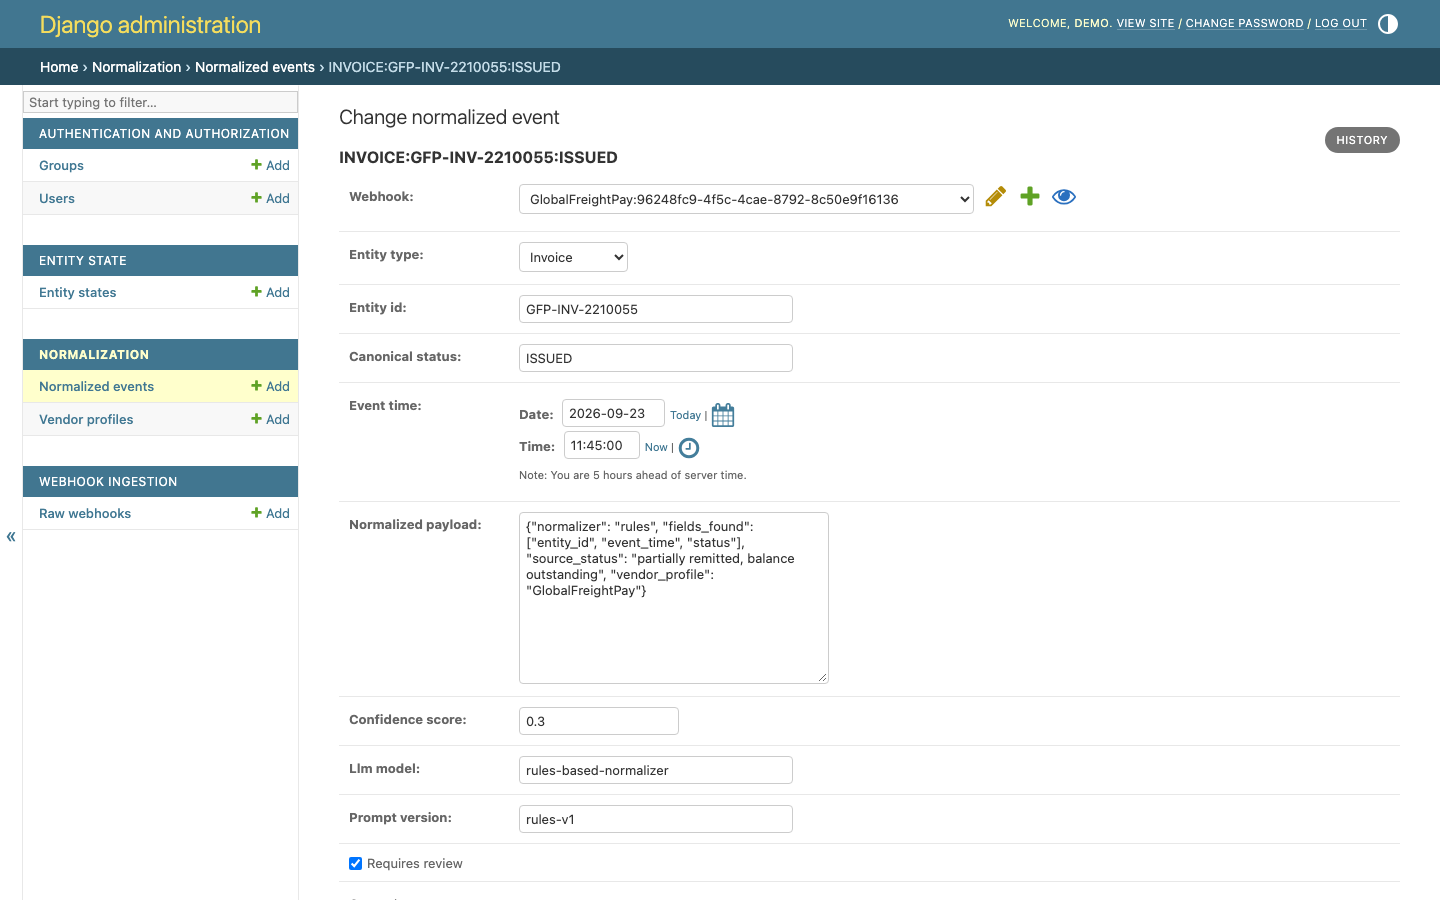
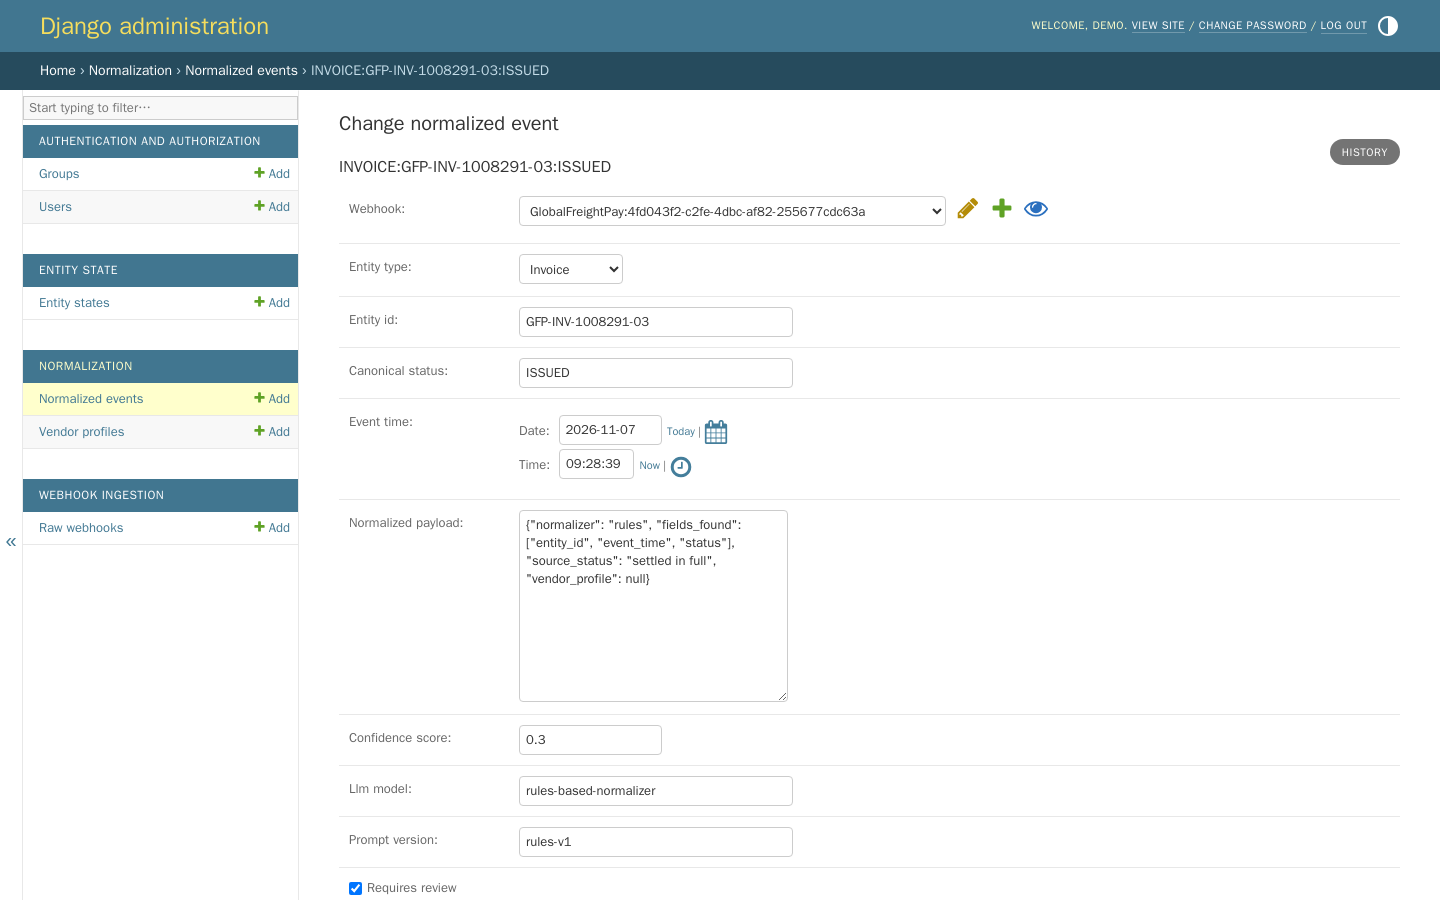
Recapture README examples and admin screenshots from a fresh stack
Request/response pairs and all five screenshots were taken from a clean
docker compose up seeded with demo data. The README now uses the lockfile
for local installs, runs the tests through the compose container, links the
entity-state and API docs screenshots, and covers the review row lock and
the malformed-model-reply handling.

diff --git a/README.md b/README.md
@@ -22,10 +22,11 @@ docker compose up --build
 This starts PostgreSQL, Redis, the web process and two Celery workers (one per queue), runs
 migrations, creates a `demo` / `demo-password` admin login and seeds 24 webhooks from four
 vendors. Web is on `:8100` (admin at `/admin/`, OpenAPI at `/api/docs/`, liveness at
-`/api/health/`), PostgreSQL on `:8101`, Redis on `:8102`. Without Docker, against local services:
+`/api/health/`), PostgreSQL on `:8101`, Redis on `:8102`. Without Docker, on Python 3.12
+(`.python-version`) and against local services:
 
 ```bash
-uv sync --extra dev
+uv sync --locked --extra dev
 export POSTGRES_HOST=localhost REDIS_URL=redis://localhost:6379/0 CACHE_URL=redis://localhost:6379/2
 python manage.py migrate && python manage.py seed_demo && python manage.py runserver 8100
 celery -A config worker --queues normalization,normalization.bulk --loglevel INFO
@@ -35,13 +36,14 @@ celery -A config worker --queues normalization,normalization.bulk --loglevel INF
 
 ## One webhook, end to end
 
-Output from a local run with no API key set (`-H 'Content-Type: application/json'` omitted). A
-delivery in a vocabulary the normaliser knows goes straight to entity state:
+Captured from a fresh `docker compose up` with no API key set (`-H 'Content-Type:
+application/json'` omitted). A delivery in a vocabulary the normaliser knows goes straight to
+entity state:
 
 ```console
 $ curl -sX POST :8100/api/webhooks/ -H 'X-Webhook-Vendor: Maersk' -H 'Idempotency-Key: MRSK-EVT-2026-000911' \
     -d '{"container_no":"MAEU240498799","event_description":"delivered","event_time":"2026-09-26T10:15:00+00:00"}'
-{"status":"accepted","webhook_id":"04178bb0-6b69-4405-af1d-4cf837865707"}
+{"status":"accepted","webhook_id":"d0de0d0d-d902-40e0-b90e-9522d5c60a57"}
 $ curl -s ':8100/api/entities/state/?entity_type=SHIPMENT&entity_id=MAEU240498799'
 {"entity_type":"SHIPMENT","entity_id":"MAEU240498799","latest_status":"DELIVERED","latest_event_time":"2026-09-26T10:15:00Z","latest_event_id":25}
 ```
@@ -62,7 +64,7 @@ $ grep normalization_held_for_review worker.log
 $ curl -sX POST :8100/api/normalization/review-queue/26/ -d '{"decision":"approve"}'
 {"id":26,"decision":"approve","entity_state_updated":true}
 $ curl -sX POST :8100/api/normalization/review-queue/26/ -d '{"decision":"reject"}'
-{"detail":"event 26 was already reviewed at 2026-10-24 11:24:47.188358+00:00"}   # HTTP 409
+{"detail":"event 26 was already reviewed at 2026-11-07 18:29:25.906767+00:00"}   # HTTP 409
 ```
 
 ## Architecture
@@ -104,7 +106,11 @@ sequenceDiagram
 Three Django apps split the tables: `apps/ingestion` owns `RawWebhook` (signatures, idempotency,
 routing, replay), `apps/normalization` owns `NormalizedEvent` and `VendorProfile` (backends, the
 gate in `review.py`, discovery, calibration), and `apps/entities` owns `EntityState`, one row per
-`(entity_type, entity_id)` pointing at the event that set it. A normalised event's lifecycle:
+`(entity_type, entity_id)` pointing at the event that set it:
+
+![Entity states in the admin, one row per shipment or invoice](docs/screenshots/entity-state.png)
+
+A normalised event's lifecycle:
 
 ```mermaid
 stateDiagram-v2
@@ -119,7 +125,7 @@ stateDiagram-v2
     Rejected --> [*]: EntityState untouched
 ```
 
-![A held invoice event in the admin, confidence 0.3, source status "partially remitted"](docs/screenshots/review-console.png)
+![A held invoice event in the admin, confidence 0.3, source status "settled in full"](docs/screenshots/review-console.png)
 *A held event in the admin: the reading, the fields found and the vendor's original status text.*
 
 ## Design decisions
@@ -128,7 +134,8 @@ stateDiagram-v2
 later means downstream consumers act on a status nobody checked; holding costs operator time and
 latency. The worker calls `apply_confidence_gate()`; the review API and the admin's bulk
 approve/reject actions both call `apply_review_decision()`, so the paths share one rule. A
-decision is final (`409` on a second one) so the audit trail matches what happened.
+decision is final (`409` on a second one) so the audit trail matches what happened, and it is
+checked under a row lock so two reviewers acting at once cannot both win.
 
 **Score by the weakest signal.** The rule backend scores entity type,
 status and timestamp separately and takes the minimum. An average would let a confidently
@@ -138,13 +145,16 @@ pins the exact-threshold case so it cannot flip to `<=` unnoticed.
 **Teach the vendor rather than review it forever.** `POST /api/normalization/vendor-profiles/discover/`
 takes a handful of sample payloads and proposes where the id, status and timestamp live, plus a
 status map. It runs statistically with no key; with a key, a model's proposal is merged on top,
-but every path it suggests must exist in the samples and every status must be canonical.
-Phrases it cannot map are reported, never invented:
+but every path it suggests must exist in the samples and every status must be canonical; a
+malformed reply falls back to the statistical reading. Phrases it cannot map are reported, never
+invented:
 
 ```console
 {"method":"statistical","sample_count":4,"unmapped_statuses":["cargo_released_to_consignee"],
- "profile":{"vendor":"Ocean Network Express","id_paths":["shipment_reference"],
-   "status_map":{"delivered":"DELIVERED","in_transit":"IN_TRANSIT"}},"persisted":true}
+ "warnings":[],"profile":{"vendor":"Ocean Network Express","entity_type":"SHIPMENT",
+   "id_paths":["shipment_reference"],"status_paths":["status_text"],"time_paths":["occurred_at"],
+   "status_map":{"delivered":"DELIVERED","in_transit":"IN_TRANSIT"},"source":"DISCOVERED",
+   "sample_count":4,"notes":""},"persisted":true}
 ```
 
 A person adds the missing word (`PUT /vendor-profiles/{vendor}/` or the admin) and replays the
@@ -184,7 +194,7 @@ is down routing falls back to the default queue.
 |---|---|
 | `POST /api/webhooks/` | Ingest. `202`; `400` for a non-object payload; `401` for a bad signature |
 | `POST /api/webhooks/{id}/replay/` | Re-run a stored payload. `409` while in flight unless `{"force": true}` |
-| `GET /api/entities/state/?entity_type=&entity_id=` | Current status of one entity |
+| `GET /api/entities/state/?entity_type=&entity_id=` | Current status of one entity (type in any case) |
 | `GET /api/normalization/review-queue/` | Held, undecided events. `?vendor=&limit=&offset=` |
 | `POST /api/normalization/review-queue/{id}/` | `{"decision": "approve"}` or `"reject"`; `409` if decided |
 | `GET /api/normalization/low-confidence/` | All events under a threshold, whatever the gate did |
@@ -192,20 +202,26 @@ is down routing falls back to the default queue.
 | `GET/PUT/DELETE /api/normalization/vendor-profiles/{vendor}/` | Vendor profile CRUD (list at `/vendor-profiles/`) |
 | `POST /api/normalization/vendor-profiles/discover/` | Propose a profile from samples |
 
+![Swagger UI at /api/docs/ listing the endpoints](docs/screenshots/api-docs.png)
+
 `manage.py calibration_report` prints the calibration table. It can show the threshold is too
 high (approvals piling up below it) but cannot show it is too low: events above it are never reviewed.
 
 ## Testing
 
+With the compose stack running:
+
 ```bash
-POSTGRES_HOST=localhost python -m pytest -q   # 270 passed
-ruff check . && ruff format --check .
+docker compose exec web python -m pytest      # 282 passed
+docker compose exec web sh -c 'ruff check . && ruff format --check .'
 ```
 
-It needs a real PostgreSQL (`SELECT ... FOR UPDATE`, a partial index) and makes no network calls:
-the OpenAI client is mocked and an autouse fixture clears `OPENAI_API_KEY`. Tests focus on the gate
+Outside Docker, `POSTGRES_HOST=localhost python -m pytest` does the same. The suite needs a real
+PostgreSQL (`SELECT ... FOR UPDATE`, a partial index) and makes no network calls: the OpenAI
+client is mocked and an autouse fixture clears `OPENAI_API_KEY`. Tests focus on the gate
 boundary, the retry ladder ending in `DEAD_LETTER`, redelivery by header, event id and hash, forged
-signatures, out-of-order events, routing, discovery and calibration.
+signatures, out-of-order events, routing, discovery and calibration, and on what a model can get
+wrong: a NaN confidence, a reply that is not an object, a status map that crosses entity types.
 
 ## Limitations and next steps
 
@@ -215,3 +231,7 @@ signatures, out-of-order events, routing, discovery and calibration.
 - **Per-type thresholds.** One threshold covers every vendor and entity type; invoices probably deserve a higher bar.
 - **Fair scheduling.** The bulk lane is a bulkhead only, and without `CACHE_URL` each gunicorn worker counts separately.
 - **Dead-letter triage.** Dead-lettered webhooks are replayable one at a time; there is no bulk requeue.
+
+## License
+
+MIT, see [LICENSE](LICENSE).
